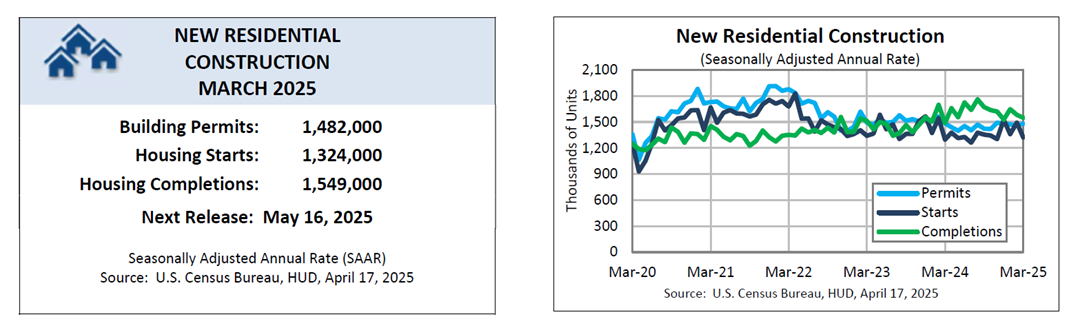
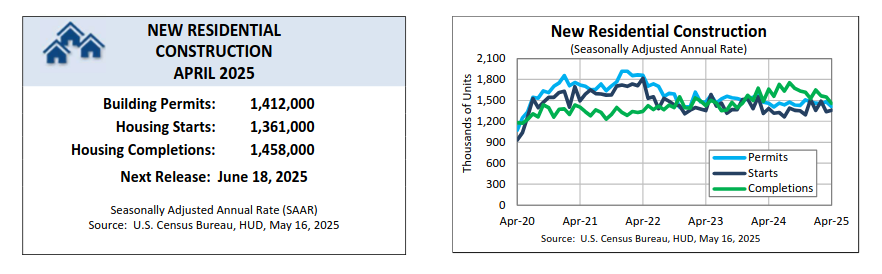
update bld permits

diff --git a/crablox/hauls/building_permits/__init__.py b/crablox/hauls/building_permits/__init__.py
@@ -2,11 +2,11 @@ from fasthtml.common import Card, Div, Img, P
 
 from hauls.components import get_details, get_history, get_footer
 
-title = "Bld Permits · 1.47 M"
+title = "Bld Permits · 1.41 M"
 style = "background-color: var(--pico-color-jade-500); border-color: var(--pico-color-jade-300);"
 caption = "United States Building Permits"
-summary = "Building permits in the United States rose by 0.5% to a seasonally adjusted annualized rate of 1.467 million in March 2025, compared to the preliminary estimate of a 1.6% increase, final data showed. This marked the first increase after three consecutive months of declines."
-details_file = "2025-03.md"
+summary = "Building permits in the United States fell by 4% to a seasonally adjusted annualized rate of 1.422 million in April 2025, revised upward from the preliminary estimate of 1.412 million."
+details_file = "2025-04.md"
 
 
 def history():

diff --git a/crablox/hauls/building_permits/2025-04.md b/crablox/hauls/building_permits/2025-04.md
@@ -1,0 +1,9 @@
+# 1.412 M
+## United States Building Permits
+MONTHLY NEW RESIDENTIAL CONSTRUCTION, APRIL 2025
+#### Released 16 May 2025
+
+Privately-owned housing units authorized by building permits in April were at a seasonally adjusted annual rate of 1,412,000.
+This is 4.7 percent below the revised March rate of 1,481,000 and is 3.2 percent below the April 2024 rate of 1,459,000. Single-
+family authorizations in April were at a rate of 922,000; this is 5.1 percent below the revised March figure of 972,000.
+Authorizations of units in buildings with five units or more were at a rate of 431,000 in April.
